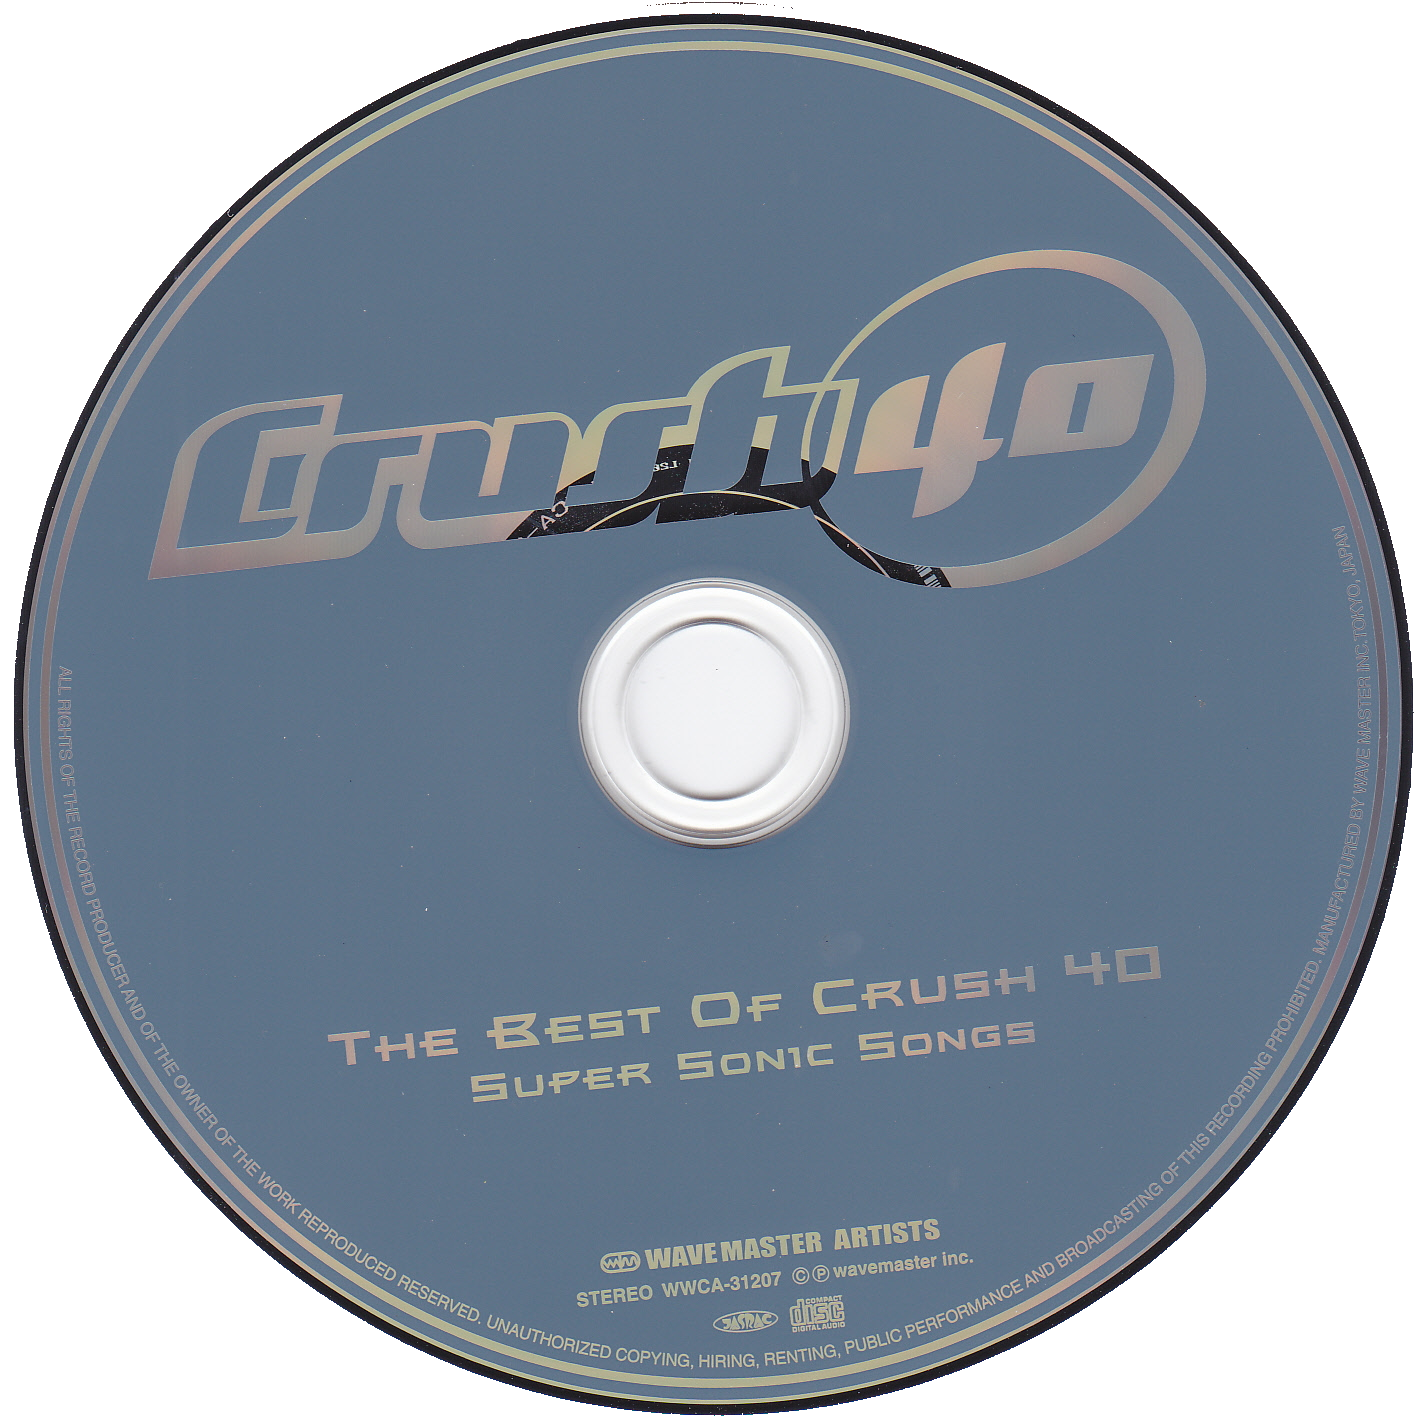
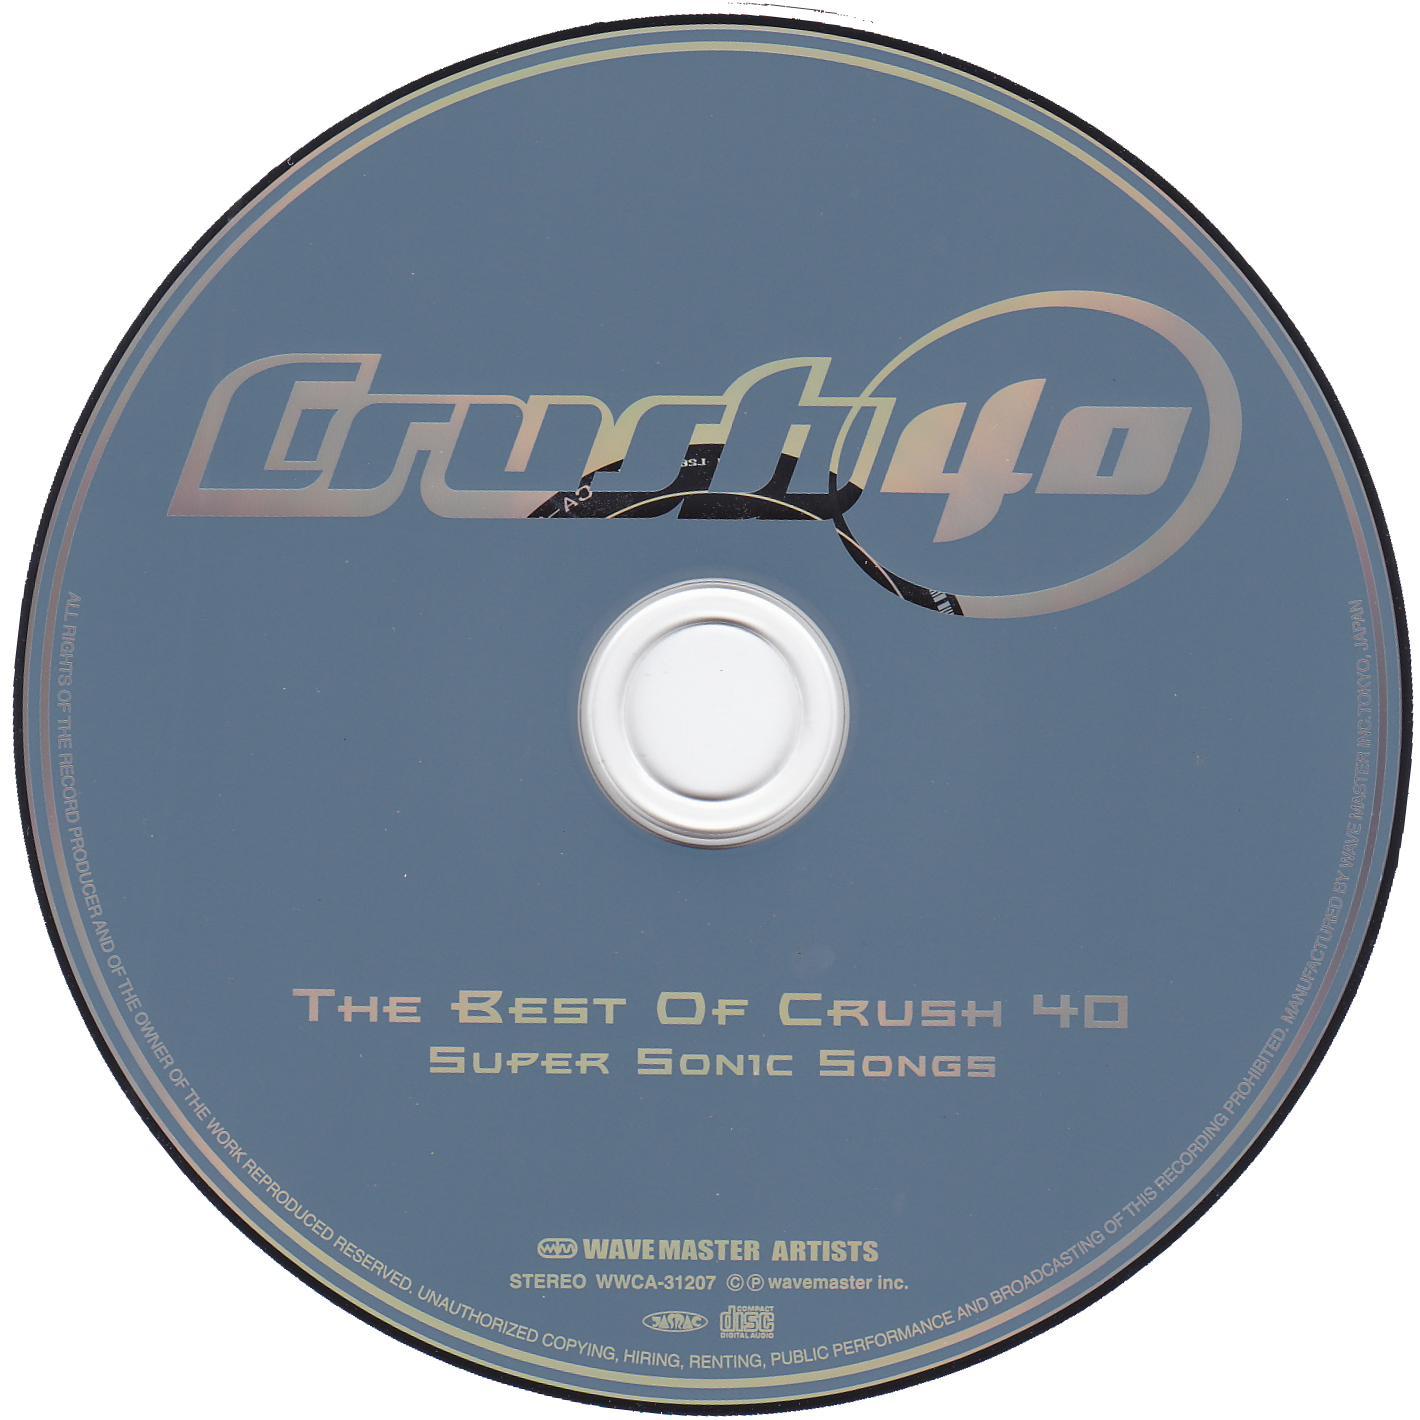
Add disc spin on scroll

diff --git a/menus/js/albumView.js b/menus/js/albumView.js
@@ -5,6 +5,8 @@ let statYear;
 let statTracks;
 let statLength;
 let trackList;
+let physical;
+let physicalDisc;
 let physicalCover;
 let physicalBack;
 let physicalTray;
@@ -21,6 +23,8 @@ window.addEventListener('load', () => {
     statTracks = document.querySelector(".intro > .stats > .statTrackCount > .statVal");
     statLength = document.querySelector(".intro > .stats > .statLength > .statVal");
     trackList = document.querySelector(".tracks > .trackList");
+    physical = document.querySelector("#physical");
+    physicalDisc = document.querySelector(".physical #disc");
     physicalCover = document.querySelector(".physical #cover");
     physicalBack = document.querySelector(".physical #back");
     physicalTray = document.querySelector(".physical #tray");
@@ -30,13 +34,20 @@ window.addEventListener('load', () => {
     bookletNavLeft = document.querySelector(".physical #bookletNavLeft");
     bookletNavRight = document.querySelector(".physical #bookletNavRight");
 
+    
     bookletNavLeft.addEventListener('click', () => {
         MovePrev();
     });
-
+    
     bookletNavRight.addEventListener('click', () => {
         MoveNext();
     });
+    
+
+    let physicalContent = document.querySelector(".physical #physicalContent");
+
+    physical.addEventListener("scroll", () => UpdateDiscSpin(physical.scrollTop));
+    physicalContent.addEventListener("scroll", () => UpdateDiscSpin(physical.scrollLeft));
 
     window.parent.postMessage('!800px', '*');
     Populate(Albums["thrill"]);
@@ -49,6 +60,7 @@ function Populate(album)
     statYear.innerText = album.releaseYear;
     statTracks.innerText = album.tracks.length;
     statLength.innerText = album.playbackLength;
+    physicalDisc.src = album.discImg;
 
     for (let track of album.tracks)
         trackList.appendChild(CreateTrack(track));
@@ -266,4 +278,10 @@ function MoveNext()
 {
     currentBookletPos++;
     PopulateBookletInfo();
+}
+
+// Disc Spin
+function UpdateDiscSpin(scrollPos)
+{
+    physicalDisc.style.transform = "rotate(" + scrollPos % 360 / 5 + "deg)";
 }

diff --git a/menus/albumView.html b/menus/albumView.html
@@ -42,6 +42,7 @@
                         { title: "All The Way", playbackLength: "4:09", tags: ['first'] },
                         { title: "Open Your Heart", playbackLength: "5:11", tags: ['first'], description: "A bonus track featured on the album - taken from <i>Sonic Adventure</i>, released two years prior." },
                     ],
+                    discImg: "../img/content/discography/physical/Thrill/Disc.png",
                     physicalCover: 
                     {
                         imgSrc: "../img/content/discography/ThrillOfTheFeel.jpg",
@@ -149,15 +150,15 @@
             </ol>
         </div>
 
-        <div class="physical block">
+        <div class="physical block" id="physical">
             <div class="physicalTitle">
                 <h2 class="physicalTitleText">Physical Media</h2>
                 <p class="physicalTitleExpand"><img src="../img/icons/expand.svg"> Click to view in full</p>
             </div>
 
-            <div class="content">
+            <div class="content" id="physicalContent">
                 <div class="cd">
-                    <img class="cdImg" src="../img/content/discography/physical/SSS/CD.png" data-action='zoom'>
+                    <img id="disc" class="cdImg" src="../img/content/discography/physical/SSS/CD.png" data-action='zoom'>
                 </div>
 
                 <div class="coverings outerCoverings">

diff --git a/menus/css/albumView.css b/menus/css/albumView.css
@@ -290,6 +290,8 @@ body {
     padding: 20px;
 
     box-sizing: border-box;
+
+    transition: transform 0.1s ease-out;
 }
 
 .physical .content {
@@ -299,7 +301,6 @@ body {
 }
 
 .physical .cd .cdImg {
-    transform: rotate(6deg);
     position: relative;
     height: 100%;
 }
